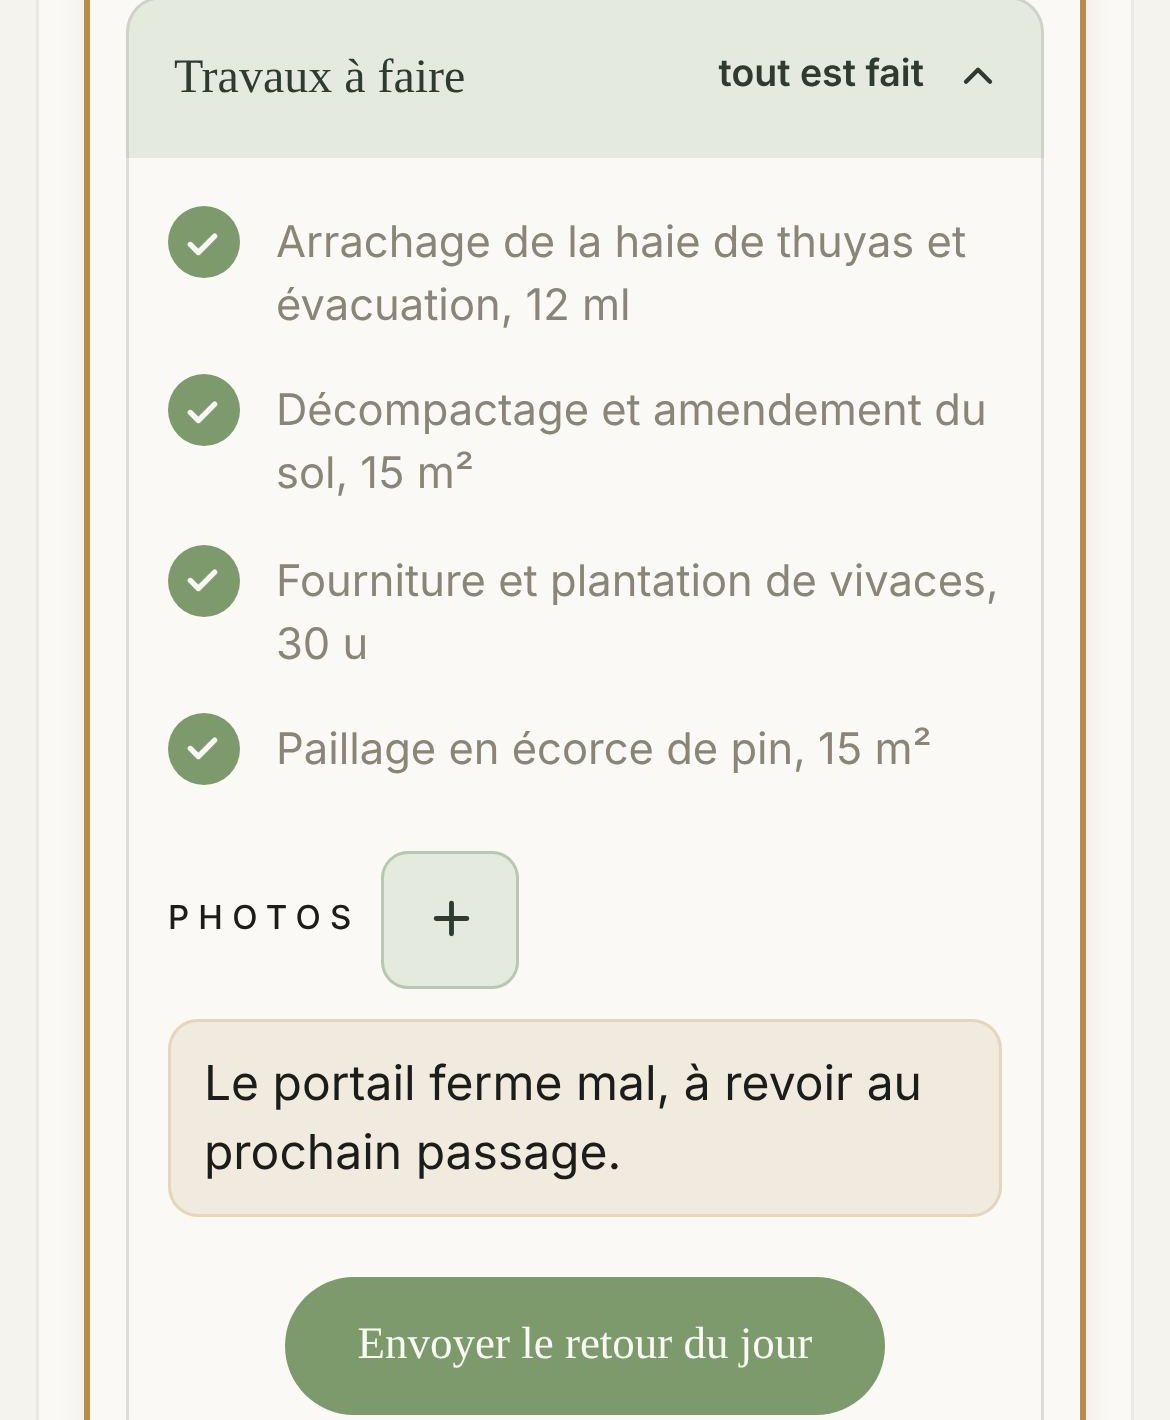
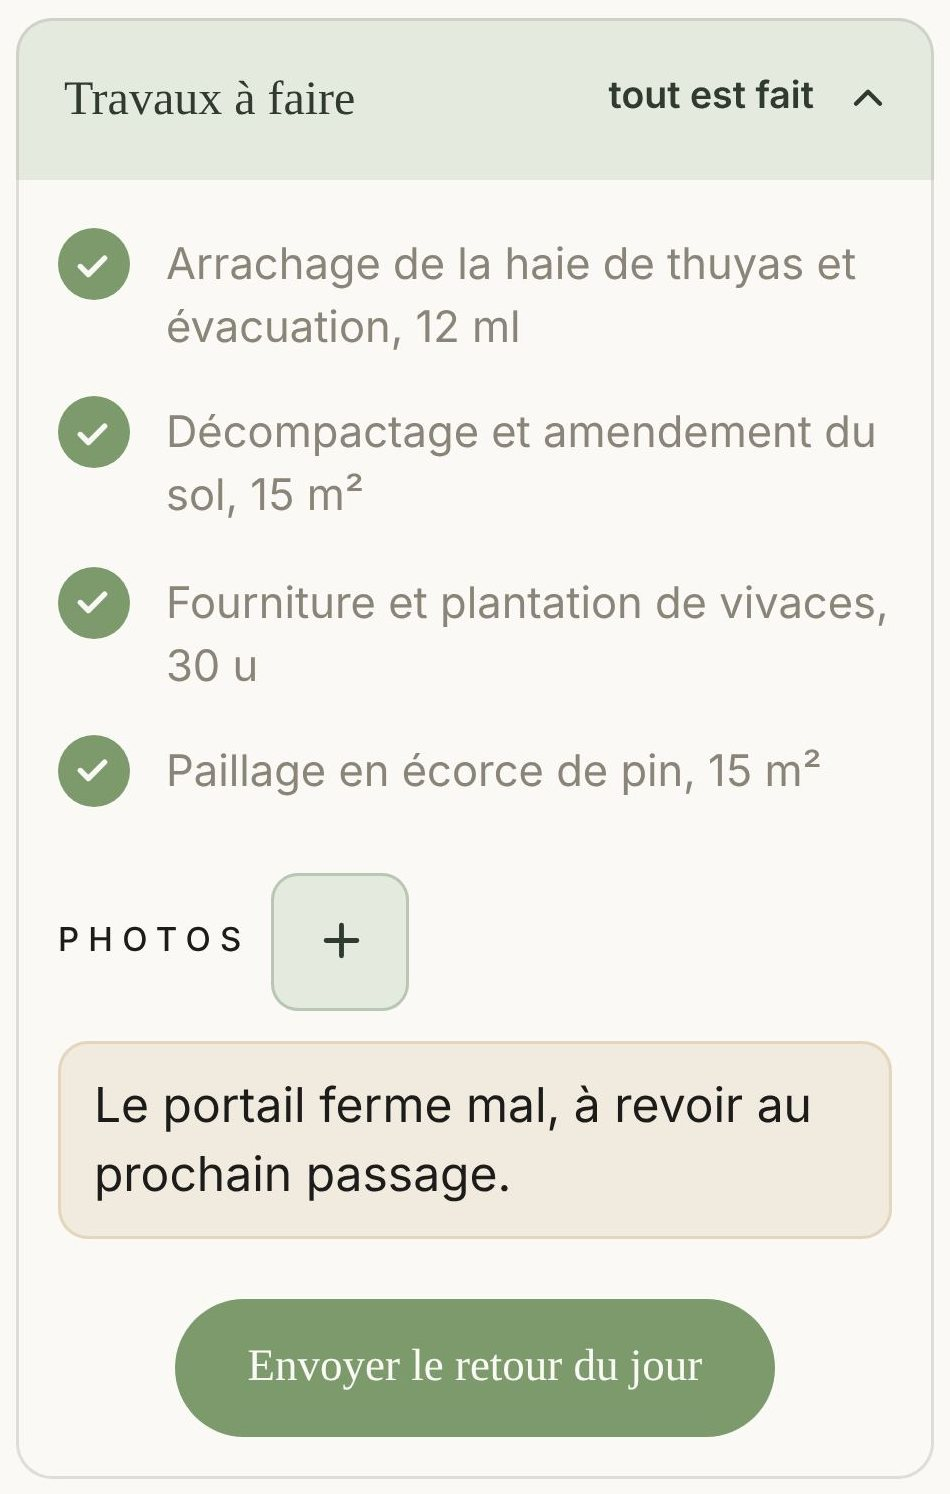
Recadrer sans bord coupé le retour du soir et les travaux cochés
Il voyait les deux gros plans tranchés : la carte du retour coupée par la
barre d'onglets, le cadre doré de la fiche coupé sur les côtés. Le retour
ne garde que la liste de ce qui a été fait, sans bord, et les travaux
prennent leur encadré entier, en dedans du cadre doré. La phrase de la
case dit ce que l'image montre.

Claude-Session: https://claude.ai/code/session_01NQoyfwDaCHL2WnQ4DJVN7i

diff --git a/appli/vente/chapitres.html b/appli/vente/chapitres.html
@@ -107,7 +107,7 @@ section{padding:clamp(88px,16vw,160px) 0}
 .case{border-radius:26px;overflow:hidden;background:var(--papier);box-shadow:0 0 0 1px rgba(var(--ombre),.07)}
 .case h3{font-size:34px;padding:26px 24px 8px}
 .case p{padding:0 24px 24px;color:var(--encre-2);font-size:16.5px}
-.case img{width:100%}
+.case img{width:100%;padding:0 14px 18px}
 @media (min-width:760px){.grille{grid-template-columns:1fr 1fr}}
 
 .fin{text-align:center}
@@ -191,7 +191,7 @@ section{padding:clamp(88px,16vw,160px) 0}
     <div class="grille">
       <article class="case revele">
         <h3>Le retour du soir</h3>
-        <p>Ce que l'équipe a fait, et ce qu'elle signale.</p>
+        <p>Ce que l'équipe a fait, coché le soir même.</p>
         <img src="images/chap-retour.jpg" alt="Retour d'intervention du chantier Lemaire, quatre tâches cochées">
       </article>
       <article class="case revele">
